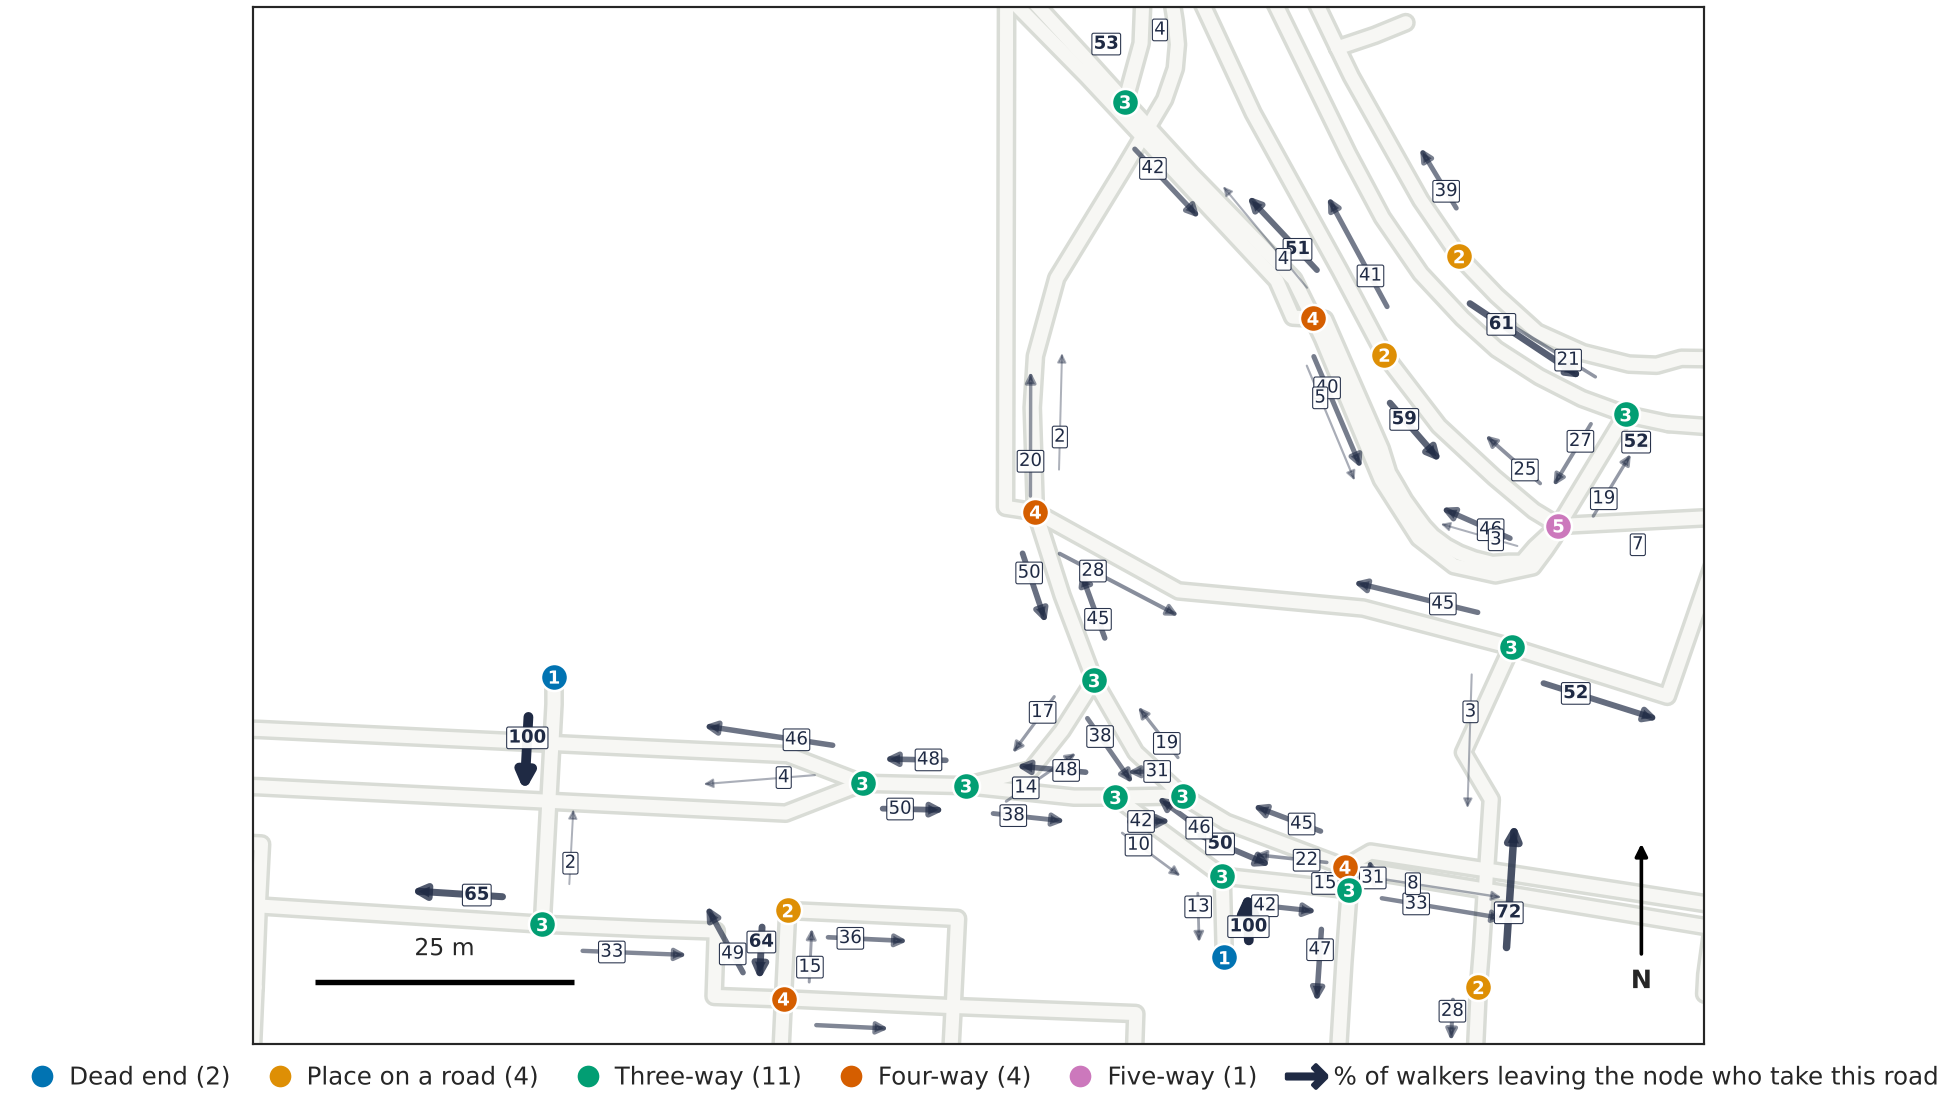
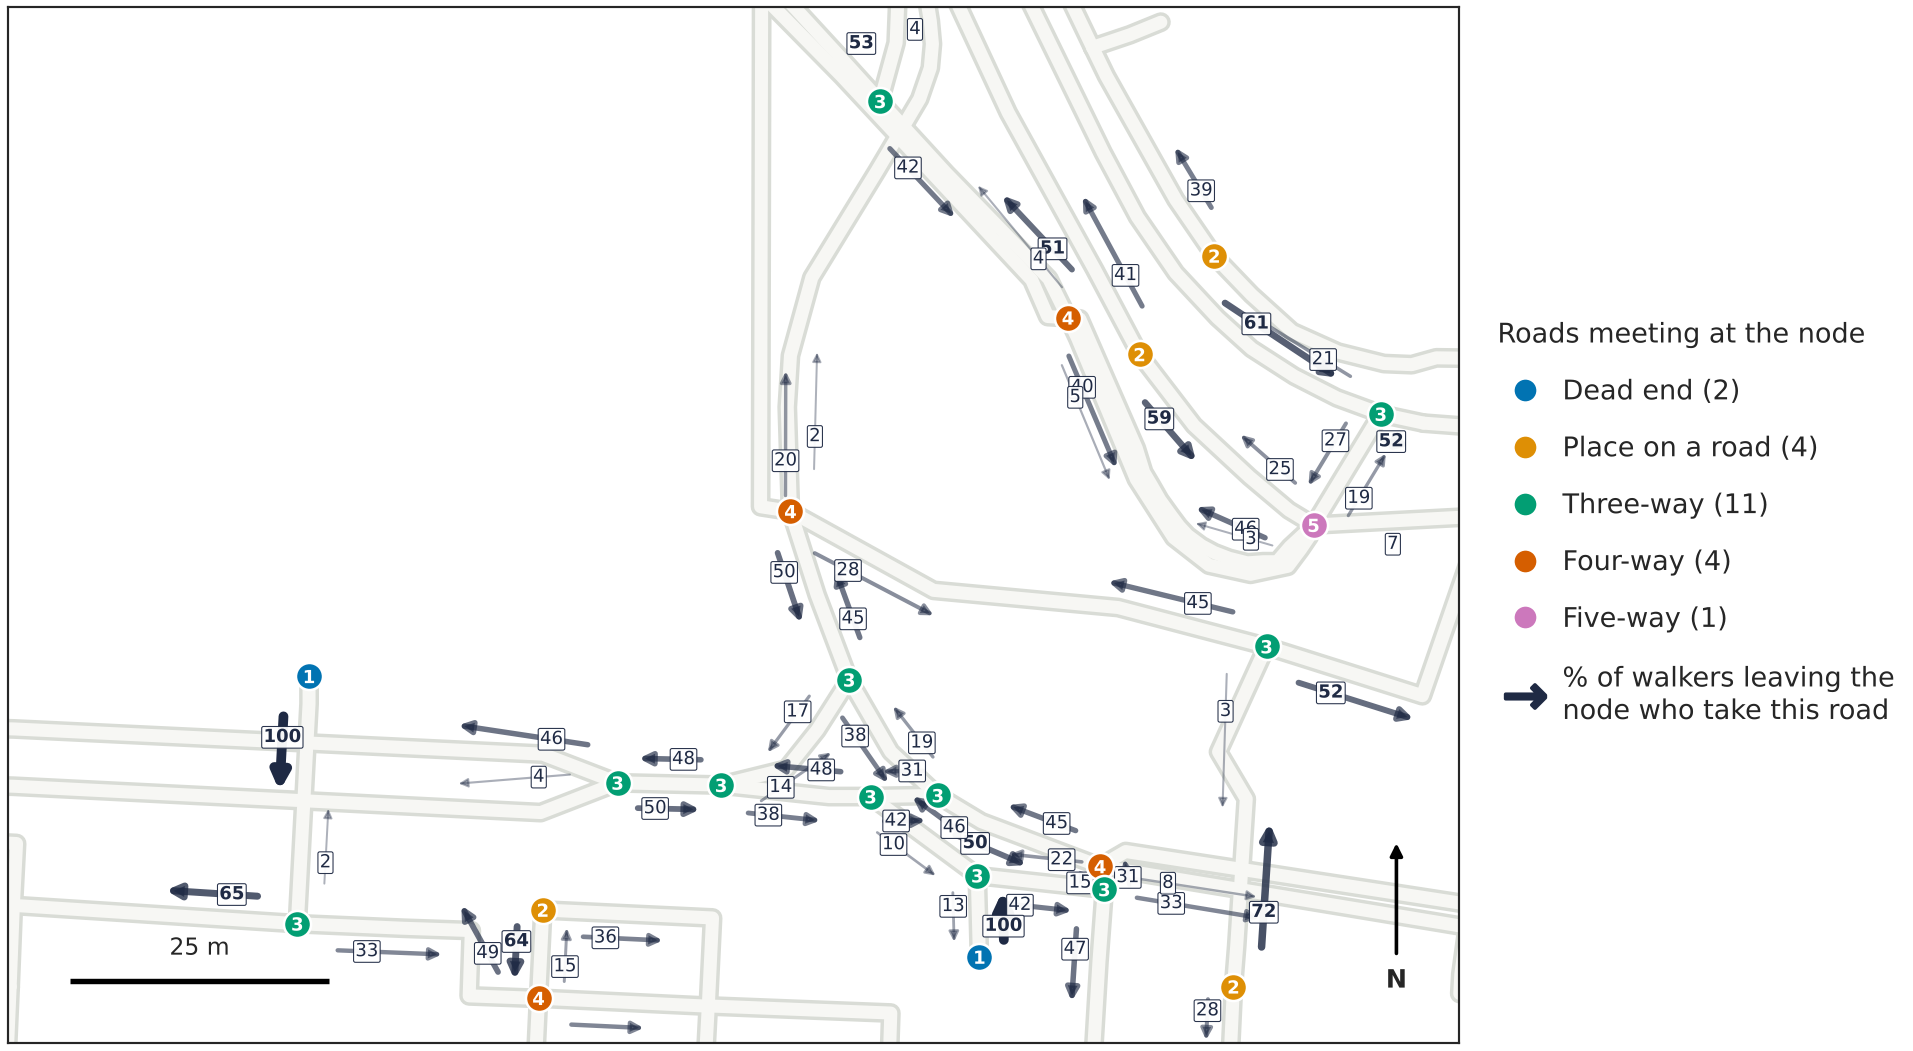
Stack the junction demo's key vertically beside the map
Claude-Session: https://claude.ai/code/session_01HBCJBcpBBj2AqpYBML4xoj

Changed region(s): [[0.0, 0.0, 0.9869, 1.0], [0.1234, 0.0, 0.1542, 0.0304]]

diff --git a/hku-agents/make_junction_graph.py b/hku-agents/make_junction_graph.py
@@ -112,9 +112,10 @@ def main():
     handles = [Line2D([], [], marker="o", ls="", ms=7, mfc=colour[k], mec="white", label=f"{KIND[k]} ({counts[k]})")
                for k in KIND if counts[k]]
     handles.append(Line2D([], [], marker=r"$\rightarrow$", ls="", ms=11, color=INK,
-                          label="% of walkers leaving the node who take this road"))
-    ax.legend(handles=handles, loc="upper center", bbox_to_anchor=(0.5, 0.0), frameon=False, fontsize=6.8,
-              ncol=len(handles), handletextpad=0.1, columnspacing=1.0)
+                          label="% of walkers leaving the\nnode who take this road"))
+    ax.legend(handles=handles, loc="center left", bbox_to_anchor=(1.01, 0.5), frameon=False, fontsize=7.5,
+              ncol=1, handletextpad=0.4, labelspacing=1.1, title="Roads meeting at the node", title_fontsize=7.5,
+              alignment="left")
     ax.set_xlim(x0, x1); ax.set_ylim(y0, y1); ax.set_aspect("equal")
     ax.set_xticks([]); ax.set_yticks([])
     for s in ax.spines.values():
